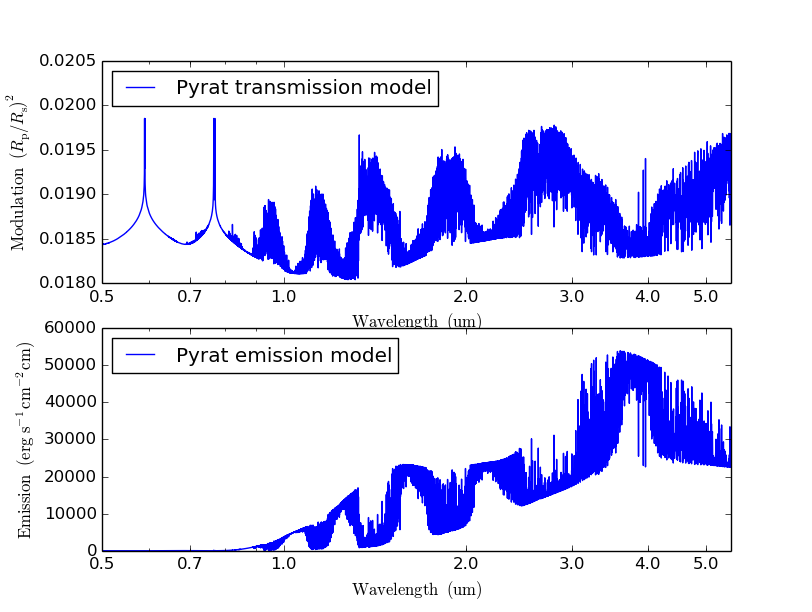
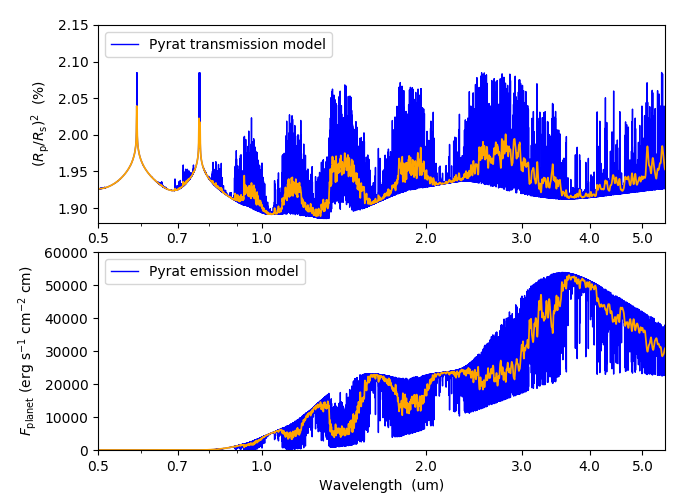
Tweaked spectrum plot defaults. Updated demo and tutorial figures. Updated docs.

Changed region(s): [[0.0, 0.06, 0.96, 0.99], [0.09, 0.03, 0.15, 0.06]]

diff --git a/pyratbay/plots/plots.py b/pyratbay/plots/plots.py
@@ -98,15 +98,15 @@ def spectrum(wlength=None, spectrum=None, data=None, uncert=None,
       bandflux = w.bandintegrate(pyrat=pyrat)
 
   # Plotting setup:
-  fs  = 12
+  fs  = 14
   ms  =  5
   lw  = 1.5
   mew = 0.4
 
-  plt.figure(fignum, (8.5, 5))
+  plt.figure(fignum, (8, 5))
   plt.clf()
   ax = plt.subplot(111)
-  plt.subplots_adjust(0.1, 0.1, 0.97, 0.97)
+  plt.subplots_adjust(0.14, 0.12, 0.97, 0.95)
 
   # Setup according to geometry:
   if   path == "eclipse":
@@ -121,7 +121,7 @@ def spectrum(wlength=None, spectrum=None, data=None, uncert=None,
   elif path == "transit":
     fscale = 1.0
     gmodel = gaussf(spectrum, gaussbin)
-    plt.ylabel(r"${\rm Modulation}\ \ (R_p/R_s)^2$", fontsize=fs)
+    plt.ylabel("$(R_p/R_s)^2$", fontsize=fs)
 
   # Plot model:
   plt.plot(wlength, gmodel*fscale, lw=lw, label="Model", color="orange")
@@ -151,8 +151,9 @@ def spectrum(wlength=None, spectrum=None, data=None, uncert=None,
     ax.get_xaxis().set_major_formatter(matplotlib.ticker.ScalarFormatter())
     ax.set_xticks(logxticks)
 
-  plt.xlabel(r"${\rm Wavelength\ \ (um)}$", fontsize=fs)
-  leg = plt.legend(loc="best", numpoints=1)
+  ax.tick_params(labelsize=fs-2)
+  plt.xlabel("Wavelength  (um)", fontsize=fs)
+  leg = plt.legend(loc="best", numpoints=1, fontsize=fs-1)
   plt.xlim(np.amin(wlength), np.amax(wlength))
 
   if filename is not None:

diff --git a/docs/getstarted.rst b/docs/getstarted.rst
@@ -133,32 +133,39 @@ interactive mode, I suggest starting the session with ``ipython
 
 .. code-block:: python
 
-  import matplotlib
   import sys
+  import matplotlib
+  from scipy.ndimage.filters import gaussian_filter1d as gaussf
   import matplotlib.pyplot as plt
   plt.ion()
 
   sys.path.append("../pyratbay/")
   import pyratbay as pb
+
+
   wl, transmission = pb.starspec.readpyrat("./transmission_spectrum_demo.dat", wn=False)
   wl, emission     = pb.starspec.readpyrat("./emission_spectrum_demo.dat", wn=False)
   
-  plt.figure(0)
+  plt.figure(0, figsize=(7,5))
   plt.clf()
+  plt.subplots_adjust(0.14, 0.1, 0.95, 0.95, hspace=0.15)
   ax = plt.subplot(211)
-  plt.semilogx(wl, transmission, "b", label="Pyrat transmission model")
-  plt.xlabel(r"${\rm Wavelength\ \ (um)}$")
-  plt.ylabel(r"${\rm Modulation}\ \ (R_{\rm p}/R_{\rm s})^2}$")
+  plt.plot(wl, 100*transmission, "b", label="Pyrat transmission model", lw=1.0)
+  plt.plot(wl, gaussf(100*transmission, sigma=5), "orange", lw=1.25)
+  plt.xscale('log')
+  plt.ylabel(r"$(R_{\rm p}/R_{\rm s})^2}$  (%)")
   ax.get_xaxis().set_major_formatter(matplotlib.ticker.ScalarFormatter())
   ax.set_xticks([0.5, 0.7, 1.0, 2.0, 3.0, 4.0, 5.0])
   plt.xlim(0.5, 5.5)
-  plt.ylim(0.018, 0.0205)
+  plt.ylim(1.88, 2.15)
   plt.legend(loc="upper left")
 
   ax = plt.subplot(212)
-  plt.semilogx(wl, emission, "b", label="Pyrat emission model")
-  plt.xlabel(r"${\rm Wavelength\ \ (um)}$")
-  plt.ylabel(r"${\rm Emission\ \ (erg\ s^{-1} cm^{-2} cm)}$")
+  plt.plot(wl, emission, "b", label="Pyrat emission model", lw=1.0)
+  plt.plot(wl, gaussf(emission, sigma=5), "orange", lw=1.25)
+  plt.xscale('log')
+  plt.xlabel(r"Wavelength  (um)")
+  plt.ylabel(r"$F_{\rm planet}$ (erg s$^{-1}$ cm$^{-2}$ cm)")
   ax.get_xaxis().set_major_formatter(matplotlib.ticker.ScalarFormatter())
   ax.set_xticks([0.5, 0.7, 1.0, 2.0, 3.0, 4.0, 5.0])
   plt.ylim(0, 60000)

diff --git a/docs/tutorial.rst b/docs/tutorial.rst
@@ -127,7 +127,8 @@ Be sure to include this script each time you open a Python session:
   #    `-- run_tutorial/
   #  Alternatively, set the appropriate path in sys.path.append().
 
-  import sys, os
+  import os
+  import sys
   import matplotlib
   import numpy as np
   import matplotlib.pyplot as plt
